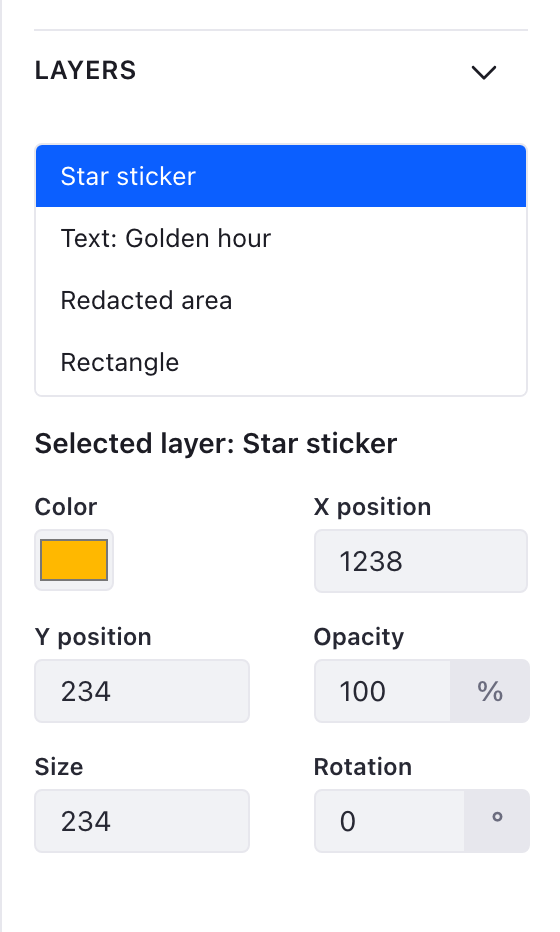
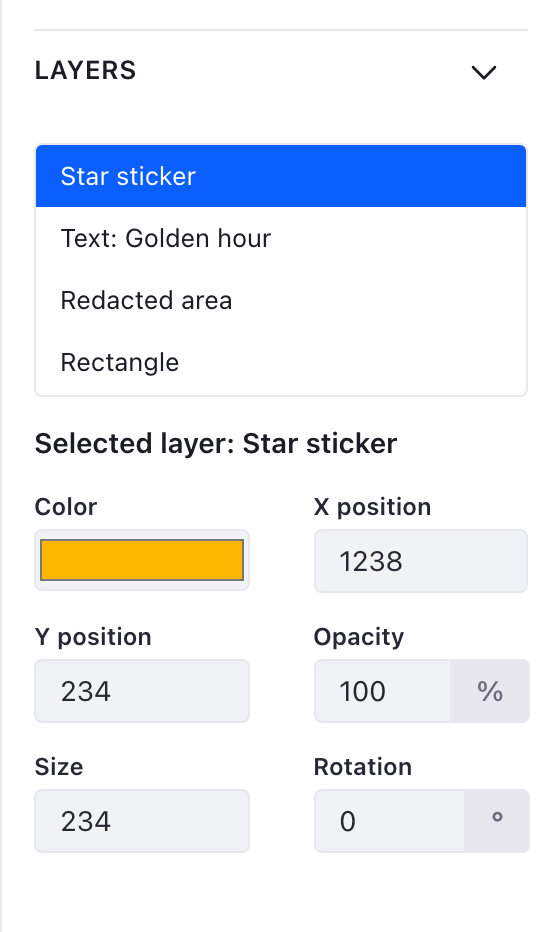
Pair the text size with its colour, and let a swatch fit its context

Changed region(s): [[0.1821, 0.5601, 0.4554, 0.6223]]

diff --git a/src/components/TextDialog.tsx b/src/components/TextDialog.tsx
@@ -78,10 +78,19 @@ export function TextDialog({onAdd, onOpenChange, open}: TextDialogProps) {
 
 	return (
 		<ClayModal observer={observer} size="sm">
+			{/*
+			  * The shield keeps the editor's own shortcuts, undo above
+			  * all, from reaching it while this dialog is up. Escape is
+			  * let through on purpose: Clay's modal hook closes whichever
+			  * dialog is on top of its stack, and a synthetic
+			  * stopPropagation would stop the native event it listens for.
+			  */}
 			<div
-				onKeyDown={(event: React.KeyboardEvent) =>
-					event.stopPropagation()
-				}
+				onKeyDown={(event: React.KeyboardEvent) => {
+					if (event.key !== 'Escape') {
+						event.stopPropagation();
+					}
+				}}
 			>
 				<ClayModal.Header closeButtonAriaLabel={t('close')} withTitle>
 					{t('add-text')}
@@ -125,36 +134,43 @@ export function TextDialog({onAdd, onOpenChange, open}: TextDialogProps) {
 							/>
 						</ClayForm.Group>
 
+						{/*
+						  * Size and colour on one line: a colour swatch on
+						  * a line of its own leaves the dialog looking
+						  * unfinished, and the two belong to the same
+						  * decision about how the text will look.
+						  */}
 						<ClayForm.Group>
 							<label htmlFor="text-font-size">
 								{t('font-size')}
 							</label>
 
-							<ClayInput
-								id="text-font-size"
-								min={8}
-								onChange={(event) =>
-									setFontSize(event.target.value)
-								}
-								type="number"
-								value={fontSize}
-							/>
-						</ClayForm.Group>
+							<ClayInput.Group>
+								<ClayInput.GroupItem prepend>
+									<ClayInput
+										id="text-font-size"
+										min={8}
+										onChange={(event) =>
+											setFontSize(event.target.value)
+										}
+										type="number"
+										value={fontSize}
+									/>
+								</ClayInput.GroupItem>
 
-						<ClayForm.Group>
-							<label htmlFor="text-color">
-								{t('text-color')}
-							</label>
-
-							<input
-								className="editor-color-input form-control"
-								id="text-color"
-								onChange={(event) =>
-									setColor(event.target.value)
-								}
-								type="color"
-								value={color}
-							/>
+								<ClayInput.GroupItem append shrink>
+									<input
+										aria-label={t('text-color')}
+										className="editor-color-input form-control"
+										id="text-color"
+										onChange={(event) =>
+											setColor(event.target.value)
+										}
+										type="color"
+										value={color}
+									/>
+								</ClayInput.GroupItem>
+							</ClayInput.Group>
 						</ClayForm.Group>
 
 						<ClayButton

diff --git a/src/components/fields.tsx b/src/components/fields.tsx
@@ -145,12 +145,22 @@ export function TextField({
  * blur as a single history entry.
  */
 export function ColorField({
+	fill,
 	id,
 	label,
 	onCommit,
 	onPreview,
 	value,
 }: FieldProps & {
+
+	/**
+	 * Whether the swatch takes the width it is given. In a two-column
+	 * grid a control that fills its column reads as part of the grid; on
+	 * a panel that runs the whole width, the same swatch looks like a
+	 * mistake.
+	 */
+	fill?: boolean;
+
 	onCommit: (value: string) => void;
 	onPreview: (value: string) => void;
 	value: string;
@@ -166,7 +176,9 @@ export function ColorField({
 			<label htmlFor={id}>{label}</label>
 
 			<input
-				className="editor-color-input form-control form-control-sm"
+				className={`editor-color-input form-control form-control-sm${
+					fill ? ' editor-color-fill' : ''
+				}`}
 				id={id}
 				onBlur={() => {
 					if (dragging.current) {

diff --git a/e2e/view-shortcuts.spec.ts b/e2e/view-shortcuts.spec.ts
@@ -116,6 +116,24 @@ test('framing the crop lands on the same view from any zoom', async ({
 	expect(await zoomPercent(page)).toBe(fromFit);
 });
 
+test('the add text dialog closes with Escape too', async ({page}) => {
+	await openEditor(page);
+
+	const trigger = page.getByRole('button', {exact: true, name: 'Add text'});
+
+	await trigger.click();
+
+	await expect(page.locator('.modal').last()).toHaveCSS('opacity', '1');
+
+	// Its keyDown shield lets this one key through for the same reason the
+	// shortcuts dialog does.
+
+	await page.keyboard.press('Escape');
+
+	await expect(page.getByRole('dialog')).toHaveCount(1);
+	await expect(trigger).toBeFocused();
+});
+
 test('the shortcuts dialog closes with Escape', async ({page}) => {
 	await openEditor(page);
 

diff --git a/src/styles.css b/src/styles.css
@@ -835,10 +835,28 @@
  */
 
 input.editor-color-input.form-control {
-	height: 1.9375rem;
 	min-width: 2.5rem;
 	padding: 0;
 	width: 2.5rem;
+}
+
+/*
+ * The height belongs to the size of control it sits with: the panels use
+ * the small variant, the add-text dialog the regular one, and a swatch
+ * that keeps one fixed height overflows the other.
+ */
+
+input.editor-color-input.form-control-sm {
+	height: 1.9375rem;
+}
+
+.input-group input.editor-color-input.form-control {
+	align-self: stretch;
+	height: auto;
+}
+
+input.editor-color-input.editor-color-fill.form-control {
+	width: 100%;
 }
 
 /* Layers */

diff --git a/src/components/LayerProperties.tsx b/src/components/LayerProperties.tsx
@@ -162,6 +162,7 @@ export function LayerProperties({dispatch, onAnnounce, overlay}: LayerProperties
 
 				{hasColor(overlay) && (
 					<ColorField
+						fill
 						id="layer-prop-color"
 						label={t('text-color')}
 						onCommit={(color) => commitPatch({color})}
